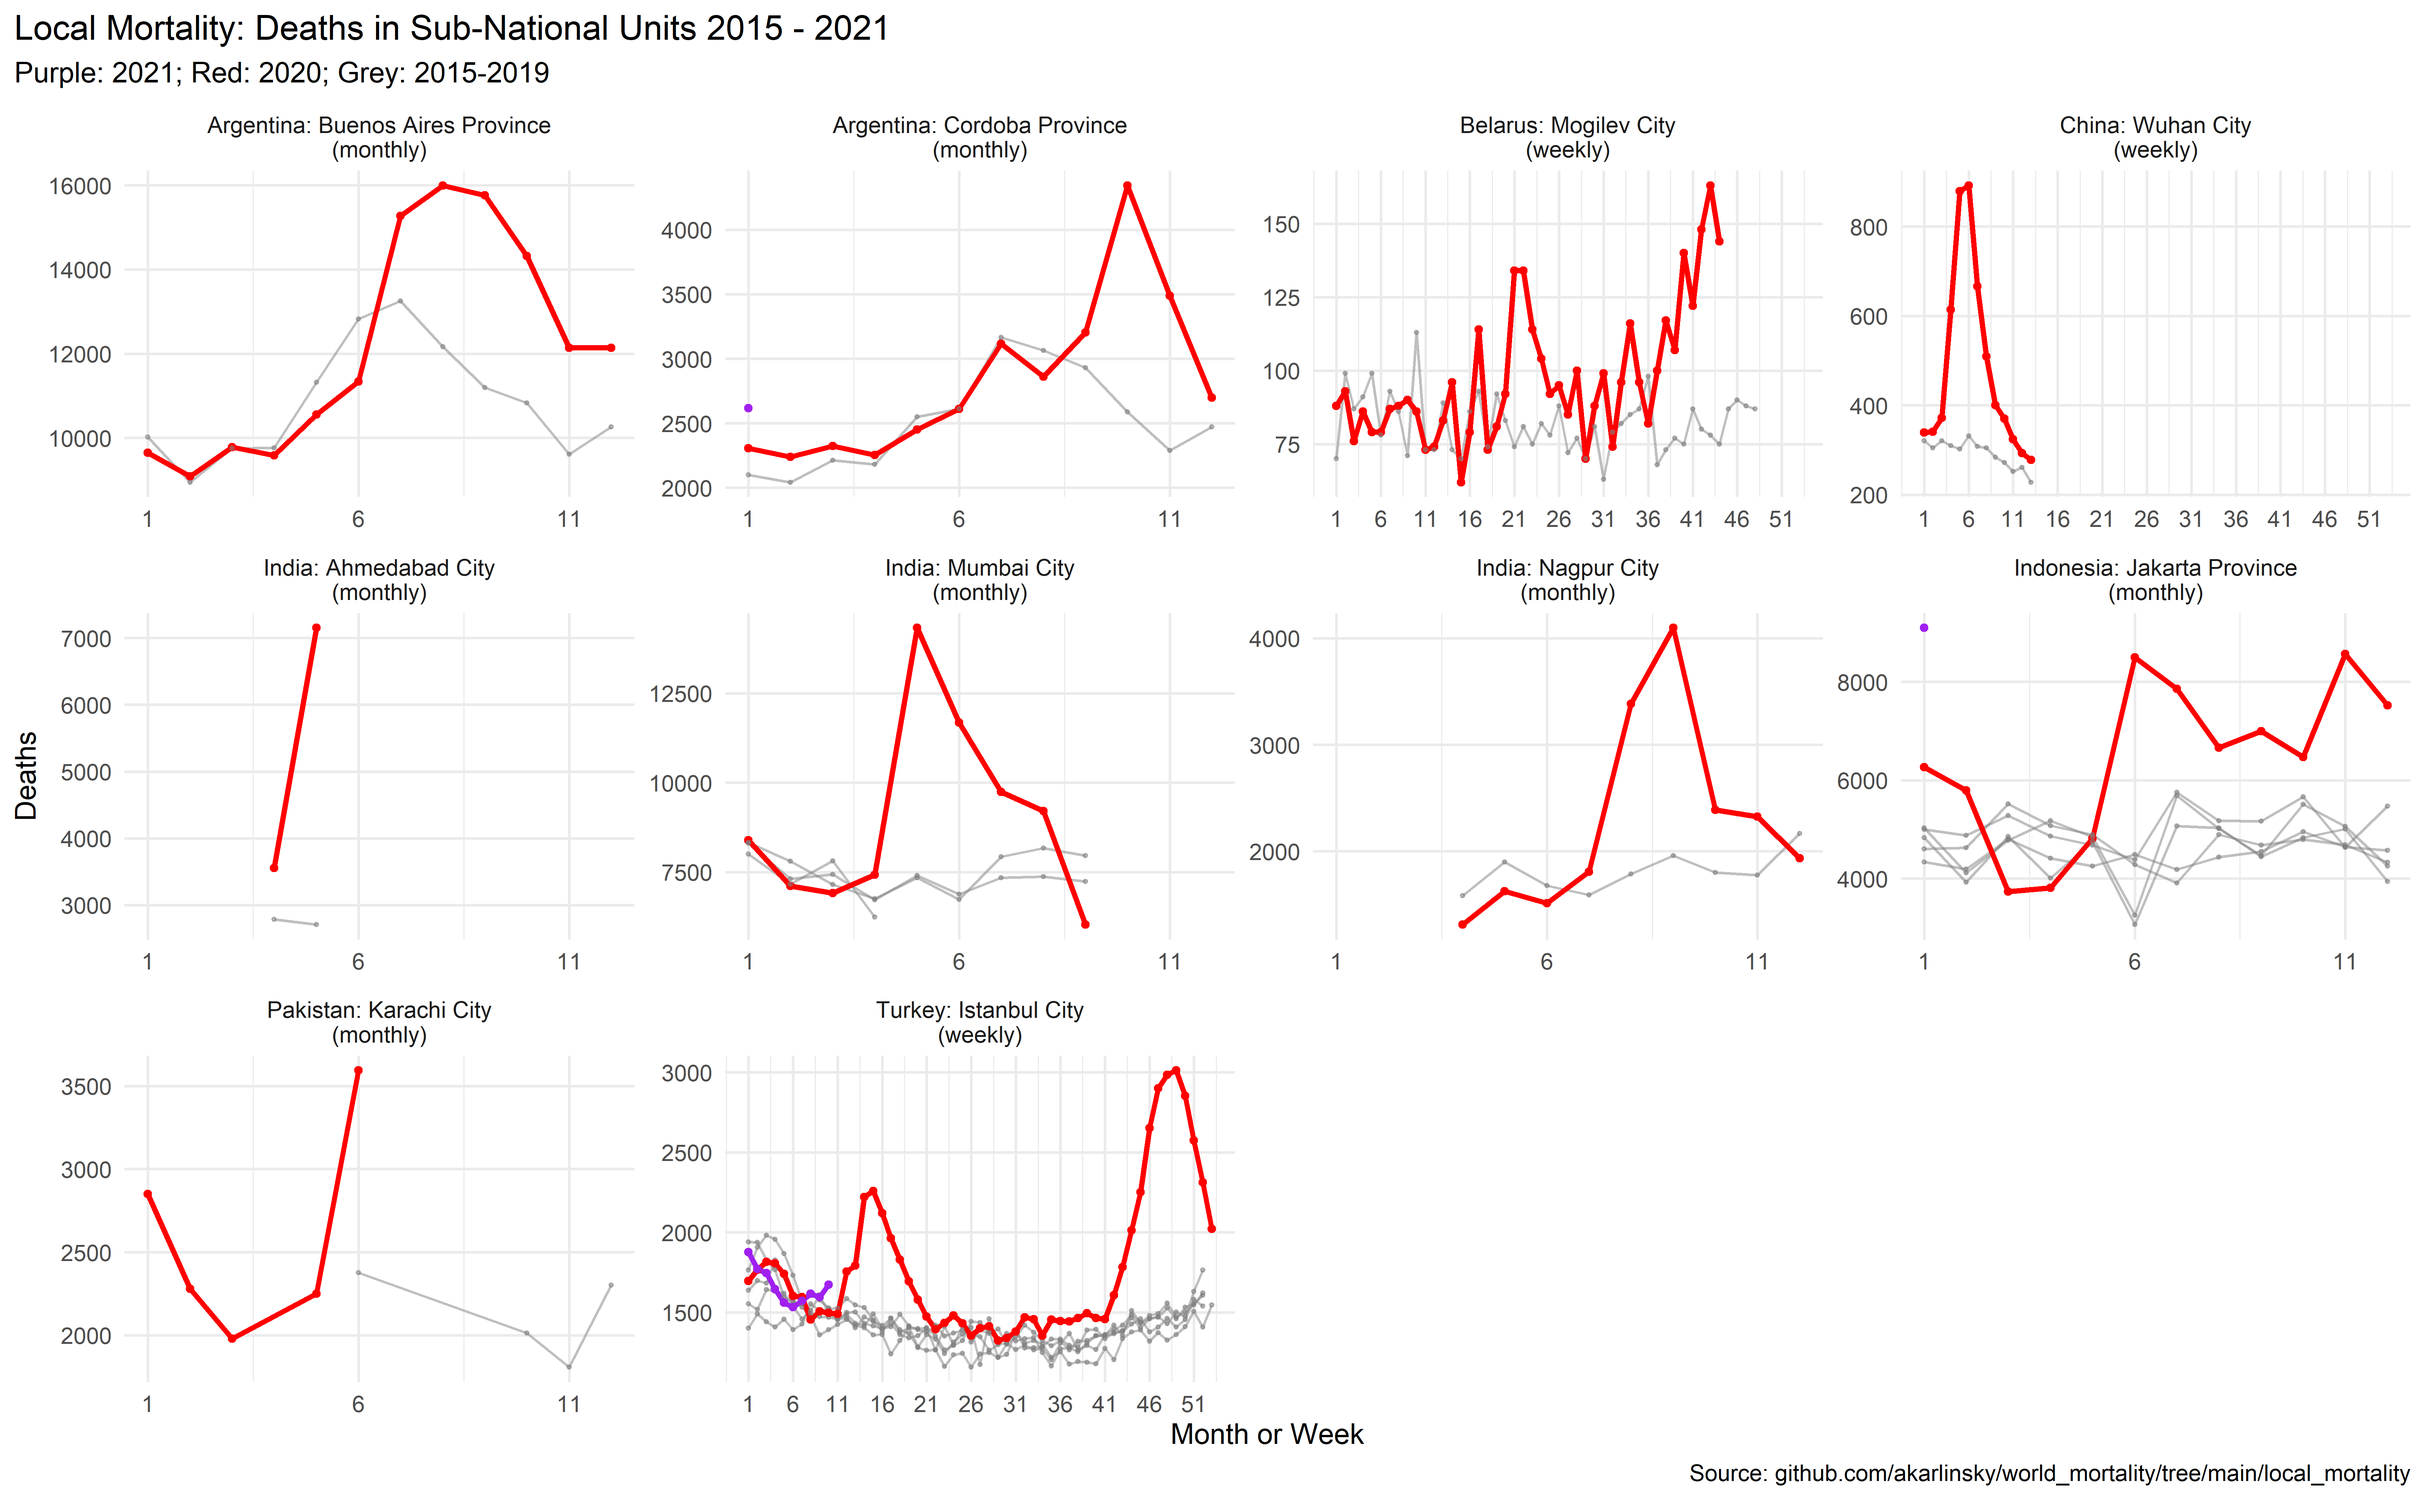
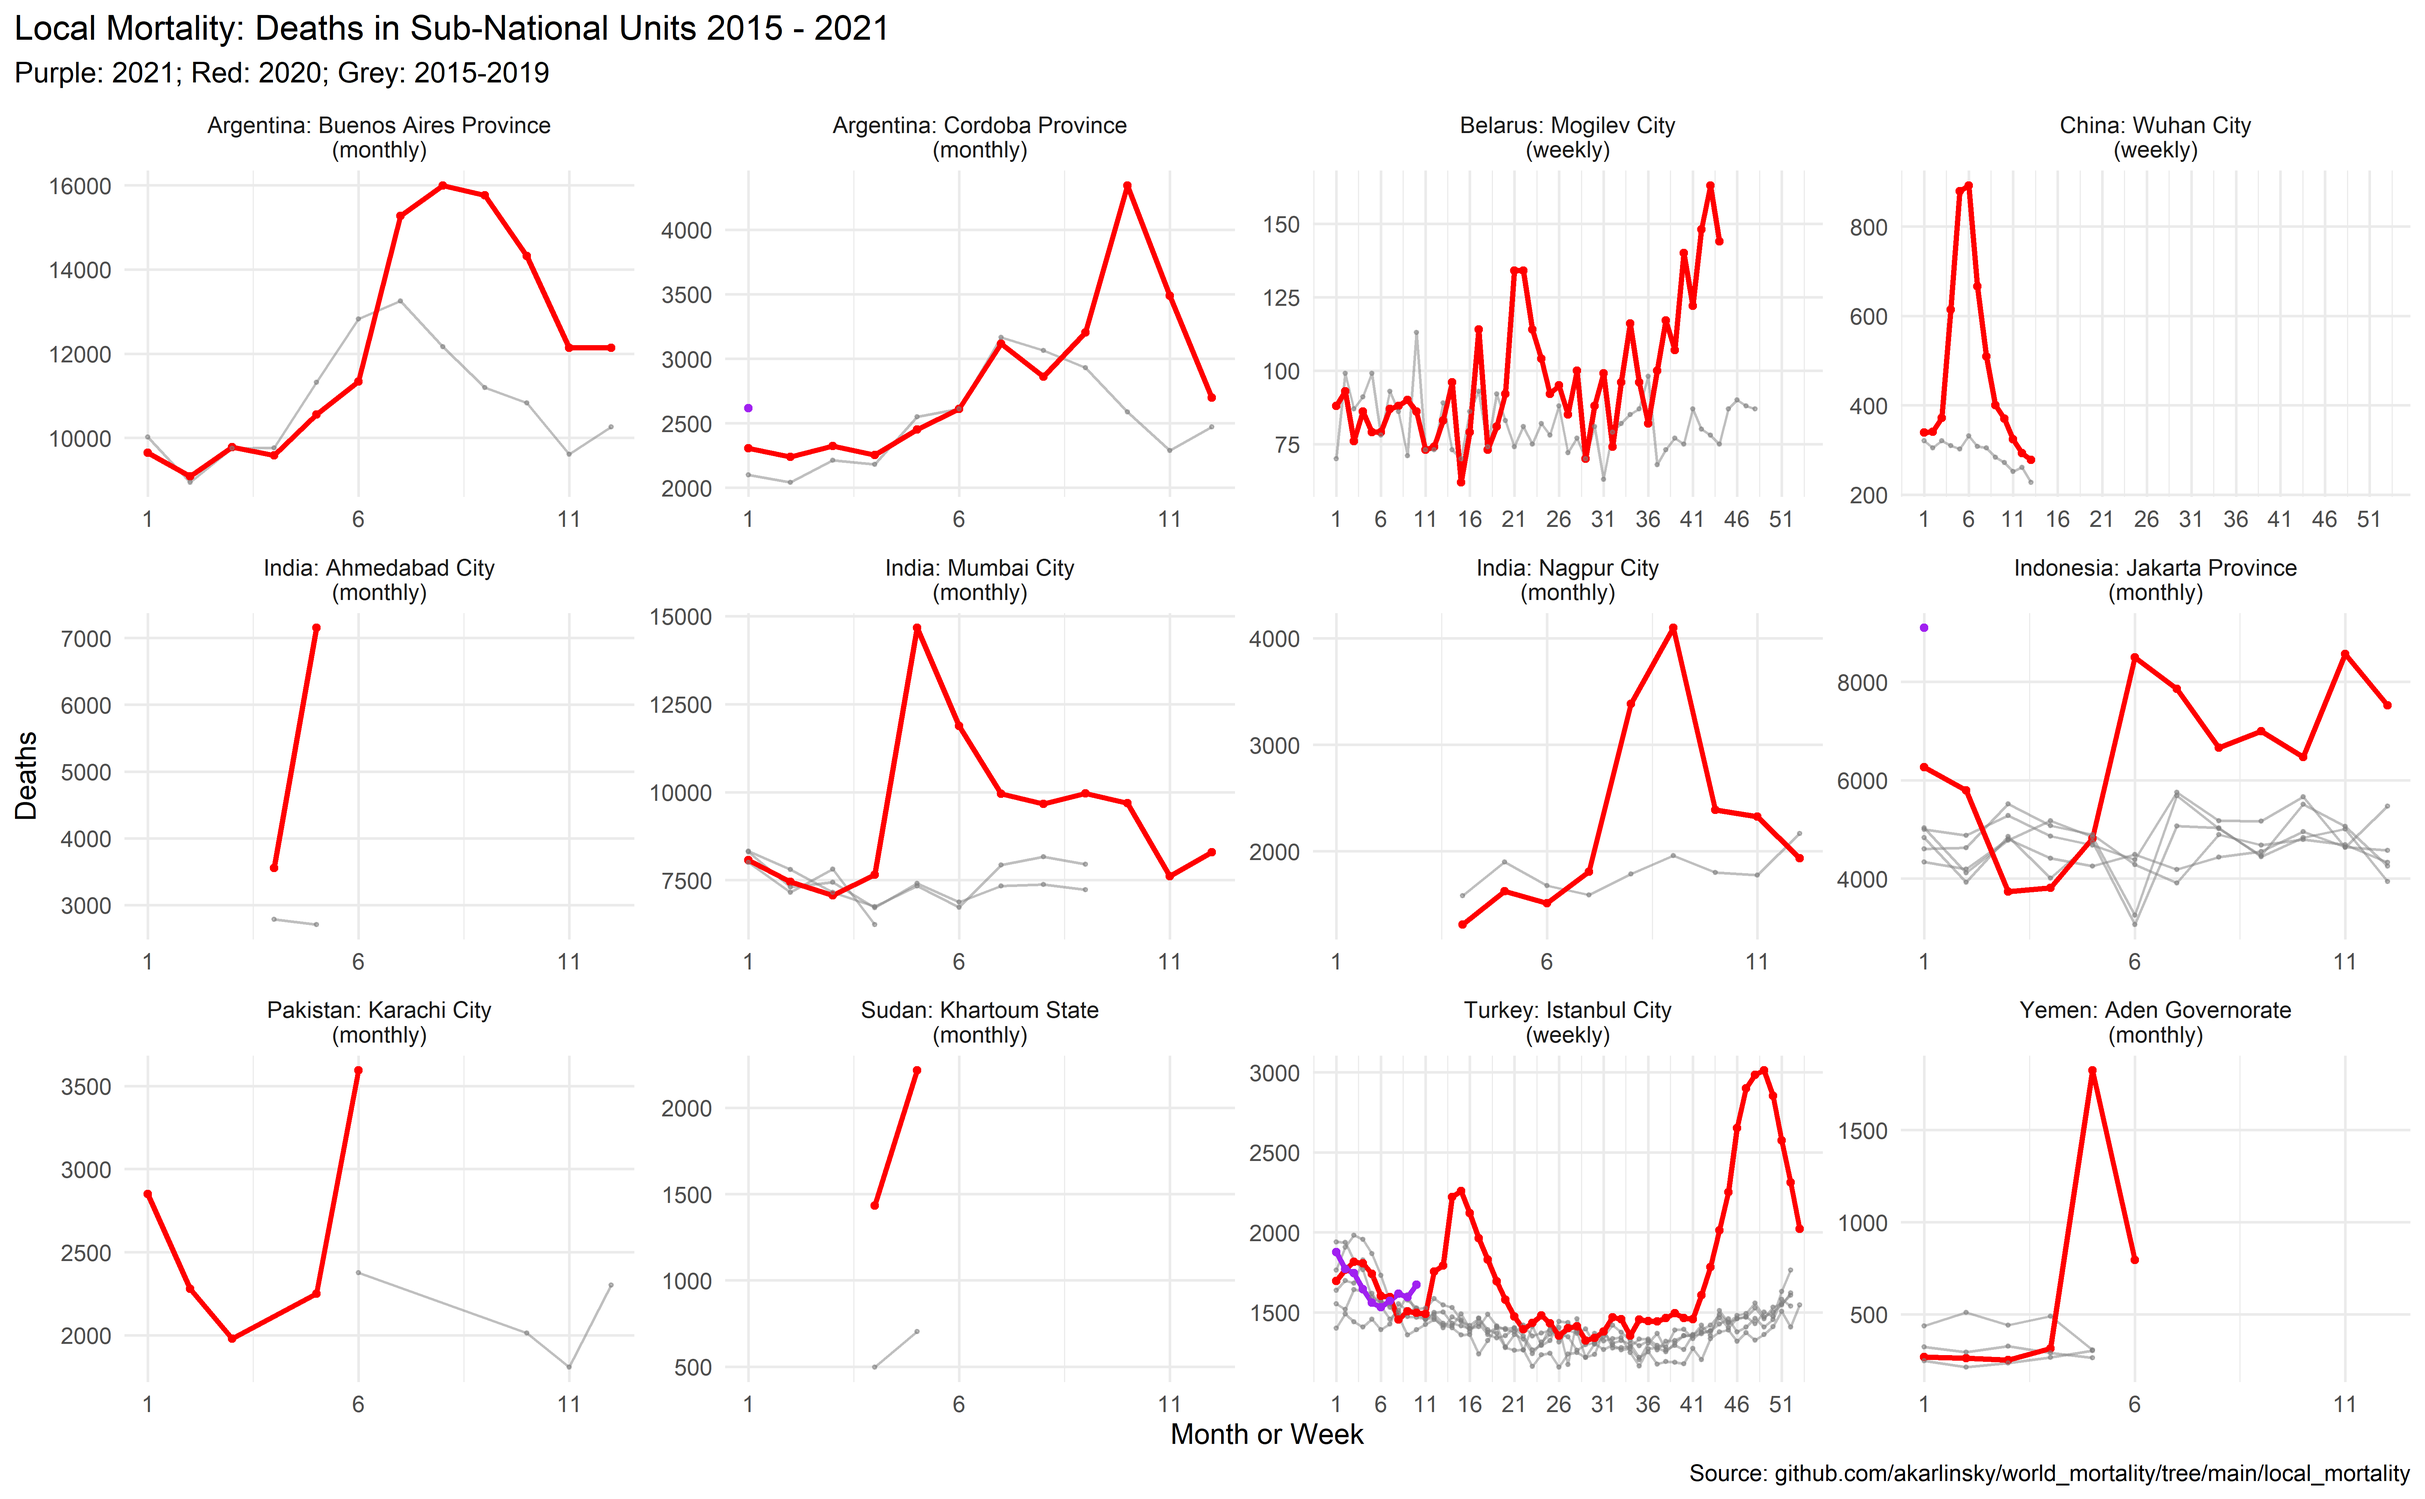
Local Mortality Update
New local units:
Khartoum State, Sudan.
Aden Governorate, Yemen.

New data and revisions:
Mumbai City, India.

diff --git a/local_mortality/README.md b/local_mortality/README.md
@@ -5,7 +5,7 @@ Local is any sub-national unit - whether state, province, region, city etc.
 Local Mortality is a sister-project of [World Mortality](https://github.com/akarlinsky/world_mortality), Priority is given to local mortality information from countries which are not present in World Mortality or have very partial information on World Mortality.   
 
 Sources vary by local unit, see below.   
-We are currently providing data for 10 Local Units from 7 Countries.   
+We are currently providing data for 12 Local Units from 9 Countries.   
 We welcome any contributions.   
 
 ![Local Mortality coverage](local_mortality_map.png)
@@ -51,6 +51,8 @@ https://www.indiaspend.com/how-india-could-fill-in-the-blanks-on-excess-mortalit
 
 https://timesofindia.indiatimes.com/city/mumbai/13k-more-deaths-in-city-this-year-between-march-sept/articleshow/78920631.cms
 
+Information from [Sumitra Debroy](https://twitter.com/debroysumitra).
+
 ### Nagpur City
 https://timesofindia.indiatimes.com/city/nagpur/nov-death-figures-hint-at-undetected-covid-fatalities-in-city/articleshow/79612964.cms
 
@@ -67,10 +69,23 @@ https://www.thenews.com.pk/print/645396-766-burials-in-april-lowest-for-kmc-grav
 
 https://www.bbc.com/urdu/pakistan-53295535
 
+## Sudan
+
+### Khartoum State (monthly)
+https://bajnews.net/%D8%A2%D9%84%D8%A7%D9%81%D9%8F-%D9%82%D8%B5%D8%B5-%D8%A7%D9%84%D8%AD%D8%B2%D9%86-%D8%A8%D8%A7%D8%AC-%D9%86%D9%8A%D9%88%D8%B2-%D9%8A%D9%83%D8%B4%D9%81-%D9%81%D9%8A-%D8%AA%D8%AD%D9%82%D9%8A/
+
+[Watson et al. (2020)](https://www.imperial.ac.uk/mrc-global-infectious-disease-analysis/covid-19/report-39-sudan/)
+
 ## Turkey
 
 ### Istanbul (weekly)
 https://github.com/gucluyaman/Excess-mortality-in-Turkey
+
+## Yemen
+
+### Aden Governorate (monthly)
+Bin Ghouth (2020) - "Excess deaths within the context of COVID 19 pandemic in Aden in May 2020". 
+A published paper based on Bin Ghouth's work is available as [Besson et al. 2021](10.1136/bmjgh-2020-004564)
 
 
 ----------------------------
@@ -83,8 +98,6 @@ Here we list some sources for local mortality which we do not use as they only s
 
 ### Cordoba Province
 https://www.paho.org/es/documentos/documento-exceso-mortalidad-contexto-covid-19-provincia-cordoba-argentina
-
-https://www.cba.gov.ar/wp-content/uploads/2021/03/Exceso-de-Mortalidad-Documento.pdf
 
 ## India
 
